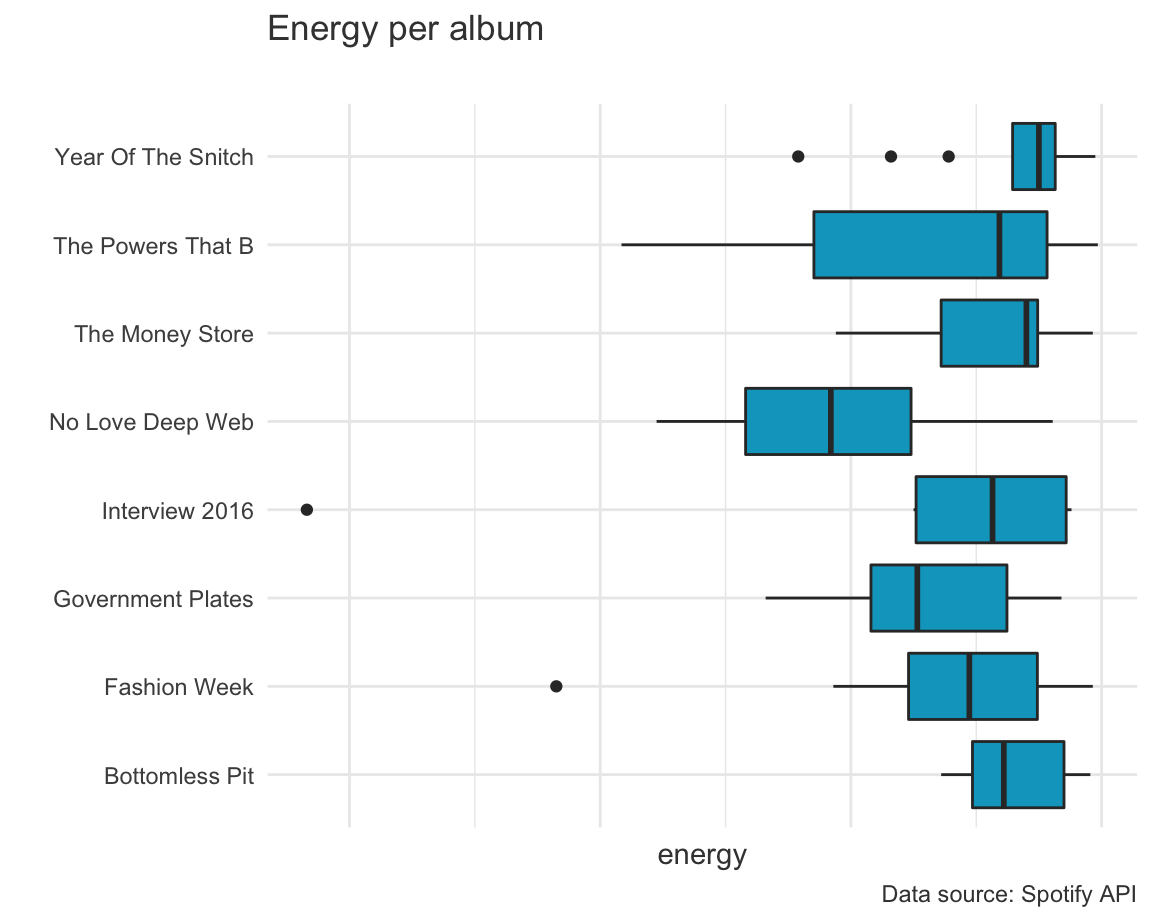
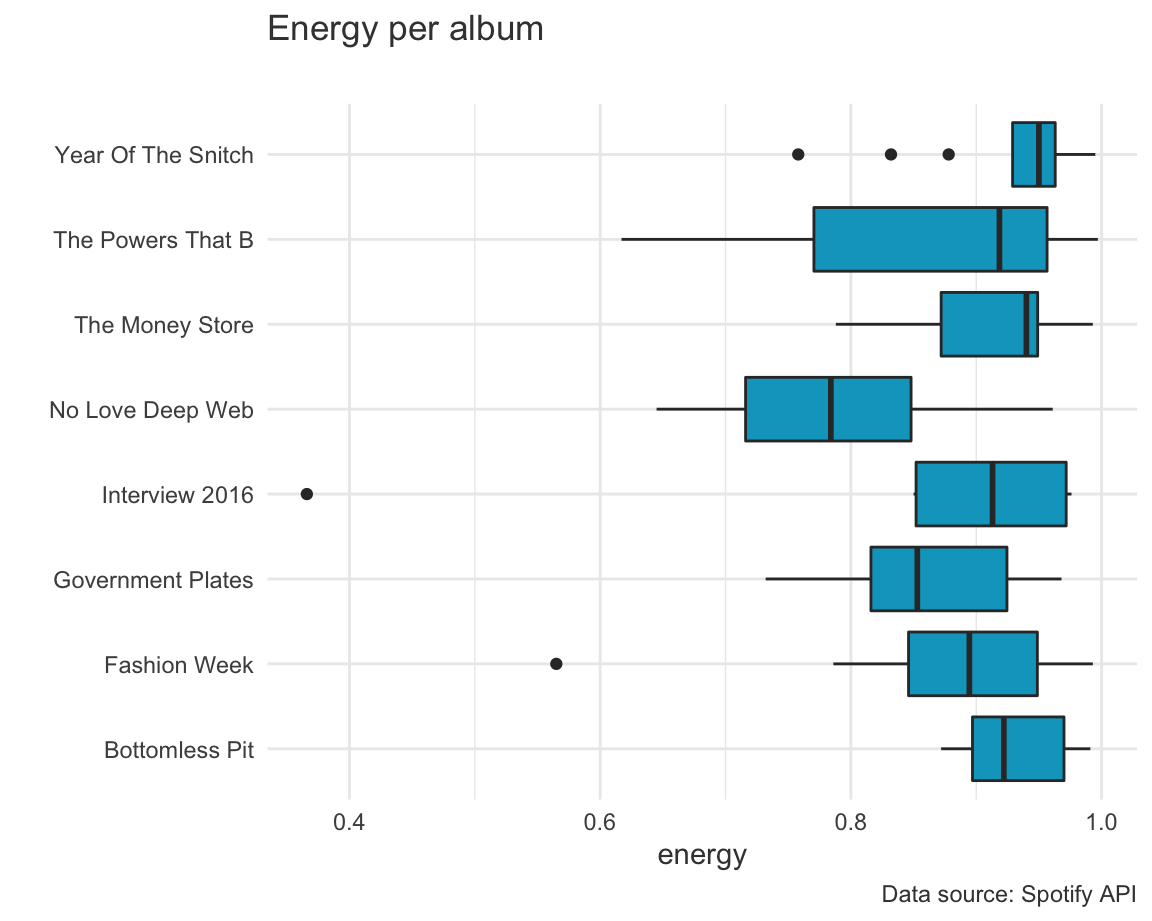
new type

diff --git a/index.html b/index.html
@@ -2621,9 +2621,8 @@ color:black!important;
 <p><img src="index_files/figure-html/unnamed-chunk-1-1.png" width="576" data-figure-id=fig1 /></p>
 <hr />
 <p>Before making this plot, I expected the energy levels of Death grips’ music to be high. I think their music is very energetic, sometimes even too energetic for me. Maybe this is what makes the music experimental and inaccessible.</p>
-<p>According to the <a href="https://developer.spotify.com/documentation/web-api/reference/#/operations/get-audio-analysis">Spotify API</a>, energy “represents a perceptual measure of intensity and activity. Typically, energetic tracks feel fast, loud, and noisy”. I would agree that these three characteristics apply to Death Grips’ tracks.</p>
-<p>We can see very clearly that every album has a very high mean of energy, since every box is on the far right of the plot.</p>
-<p>Funny enough, there is one dot at far left. Apparently the song <em>Interview E</em> on <em>Interview 2016</em> is Death Grips’ least energetic song.</p>
+<p>According to the <a href="https://developer.spotify.com/documentation/web-api/reference/#/operations/get-audio-analysis">Spotify API</a>, energy “is a measure from 0.0 to 1.0 and represents a perceptual measure of intensity and activity. Typically, energetic tracks feel fast, loud, and noisy”. I would agree that these three characteristics apply to Death Grips’ tracks.</p>
+<p>We can see very clearly that every album has a very high mean of energy, since every box is on the far right of the plot. Funny enough, there is one dot at far left. Apparently the song <em>Interview E</em> on <em>Interview 2016</em> is Death Grips’ least energetic song.</p>
 <p>Also, <em>No Love Deep Web</em> is quite an outlier compared to the energy levels of the rest of the albums. The median energy of this album is the lowest of all. This is their second released album. Maybe they thought they needed to refrain themselves. Wait a minute, they are <strong>Death Grips</strong>. They definitely did not held back on purpose.</p>
 <p>Their music did not get less or more energetic over time. ???</p>
 <p>So, we can state that the remarkable high energy levels of Death Grips’ music is part of what makes it so aggressive and therefore experimental. This will help in researching whether their most popular music their least experimental music. I would expect that valence also contributes to aggressiveness, so that’s what we’ll look at in the next part.</p>
@@ -2635,6 +2634,7 @@ color:black!important;
 </div>
 <p><img src="index_files/figure-html/unnamed-chunk-2-1.png" width="576" data-figure-id=fig2 /></p>
 <hr />
+<p>According to the <a href="https://developer.spotify.com/documentation/web-api/reference/#/operations/get-several-audio-features">Spotify API</a>, valence is a “measure from 0.0 to 1.0 describing the musical positiveness conveyed by a track. Tracks with high valence sound more positive (e.g. happy, cheerful, euphoric), while tracks with low valence sound more negative (e.g. sad, depressed, angry).”</p>
 <p>It becomes clear that <em>Interviews 2016</em> is Death Grips’ happiest album. It is an instrumental album, which would lead us to the conclusion that maybe MC Ride has a big role in making the music sad and/or angry. However, the other instrumental album <em>Fashion Week</em> has a much lower valence than <em>Interviews 2016</em>. It is maybe a bit misleading that there are three points not included in the box of <em>Fashion Week</em>, but the median valence of the album is still low.</p>
 <p><em>The Powers that B</em> is their least happy album. However, reflecting the information of the previous plot about energy, this album was also the most energetic one. Combining these plots about energy and valence makes me conclude that <em>The Powers That B</em> is Death Grips’ most aggressive album.</p>
 </div>
@@ -2713,13 +2713,24 @@ color:black!important;
 <hr />
 <iframe style="border-radius:12px" src="https://open.spotify.com/embed/track/0Fk81iRERCjpV5Ww9Wfb3g?utm_source=generator&amp;theme=0" width="100%" height="80" frameBorder="0" allowfullscreen allow="autoplay; clipboard-write; encrypted-media; fullscreen; picture-in-picture">
 </iframe>
+<p>On the left we see a novelty function of loudness, of the song <em>Up My Sleeves</em>. A novelty (read: change) in the song, causes a peak. The higher the peak, the higher the change in, in this case, loudness.</p>
 <p>In between 25-30 seconds, we see the same type of novelties. This is due to the fact that the sentence “up my sleeves” is being repeated. At 30 seconds, the vocals stop and the melody of the song starts. The novelties in between 30-50 seconds look quite irregular, it is hard to find a tempo. <em>Up My Sleeves</em> is, once again, an energetic song with almost no silences in the main melody. There is almost no silence in between 35-50 seconds, nor in the melody. When there is music followed by silence (or the other way around), the change in loudness is high. Therefore, you would expect a high novelty when the music stops and also when it starts again. But since there are almost no silences in the melody, my expectations that the novelties in the main part of the song would not be high, were right.</p>
-<p>For similar reasons, the tempogram of <em>Up My Sleeves</em> is hard to read, except for the parts where the main melody is missing (0-30 seconds and 266-292 seconds).</p>
-<p><strong>How do I import an internal image of the tempogram?</strong></p>
+</div>
+<div id="tempogram" class="section level3">
+<h3>Tempogram</h3>
 <div class="figure">
-<img src="/Users/isabel/Documents/Filosofie%20UvA/Jaar%202/Computational%20musicology/tempogram_ums.png" alt="" />
+<img src="/Users/isabel/Documenten/Filosofie%20UvA/Jaar%202/Computational%20musicology/tempogram_ums.png" alt="" />
 <p class="caption">Tempogram</p>
 </div>
+<hr />
+<p>According to the Fourier-based tempogram of <em>Up My Sleeves</em>, the tempo of the song changes very often, except for the parts where the main melody is missing (0-30 seconds and 266-292 seconds). In those parts, the tempo is probably 145 beats per minute.</p>
+<p><strong>How do I import an internal image of the tempogram?</strong> I get a “No image path” error…</p>
+</div>
+<div id="conclusion" class="section level3">
+<h3>Conclusion</h3>
+<p><strong><em>What makes Death Grips experimental?</em></strong></p>
+<p>We’ve seen that <strong>Death Grips</strong>’ music is energetic and sad, which equals aggression. I am very convinced that this is part of what makes Death Grips experimental. Ofcourse, a lot of music is aggressive, but Death Grips introduced a new type of aggression with their evolutionary blend of punk rock, hip-hop and industrial music.</p>
+<p>However, their experimentalness does not show in change or uniqueness within songs. We’ve seen that <em>Fuck Me Out</em> is quite similar to itself. Furthermore, <em>Up My Sleeves</em> did not contain huge novelties in loudness. Looks like there is still room for Death Grips to reinvent themselves and become even more experimental, inaccesible and unlistenable ;)</p>
 </div>
 
 </div>
